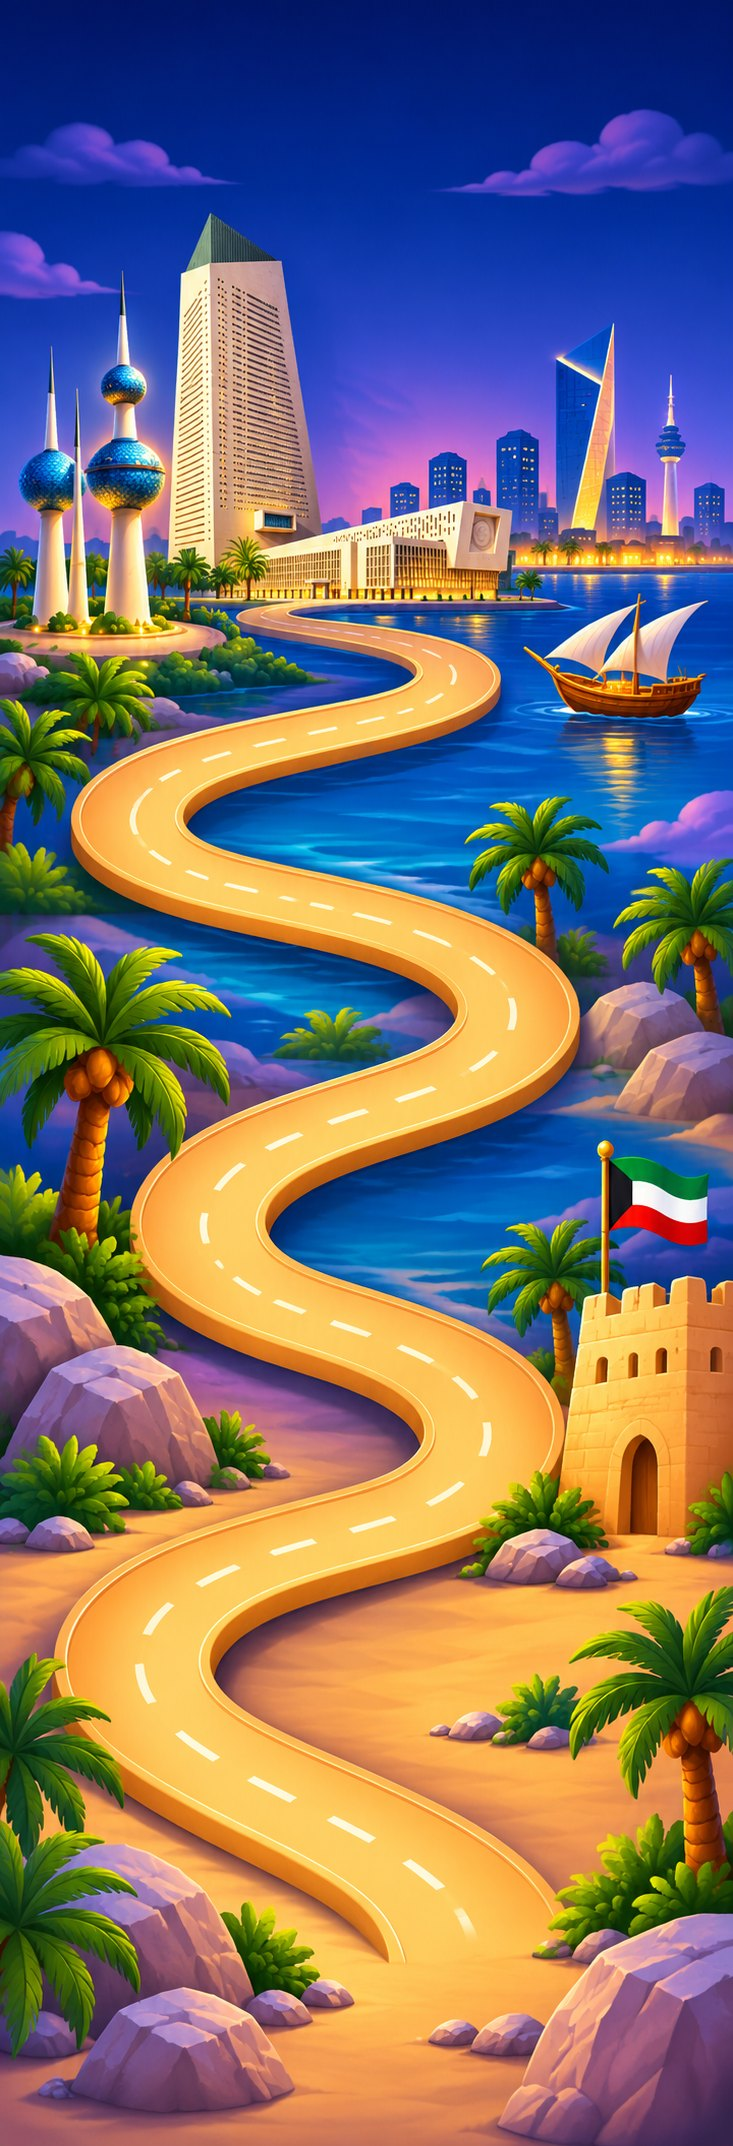
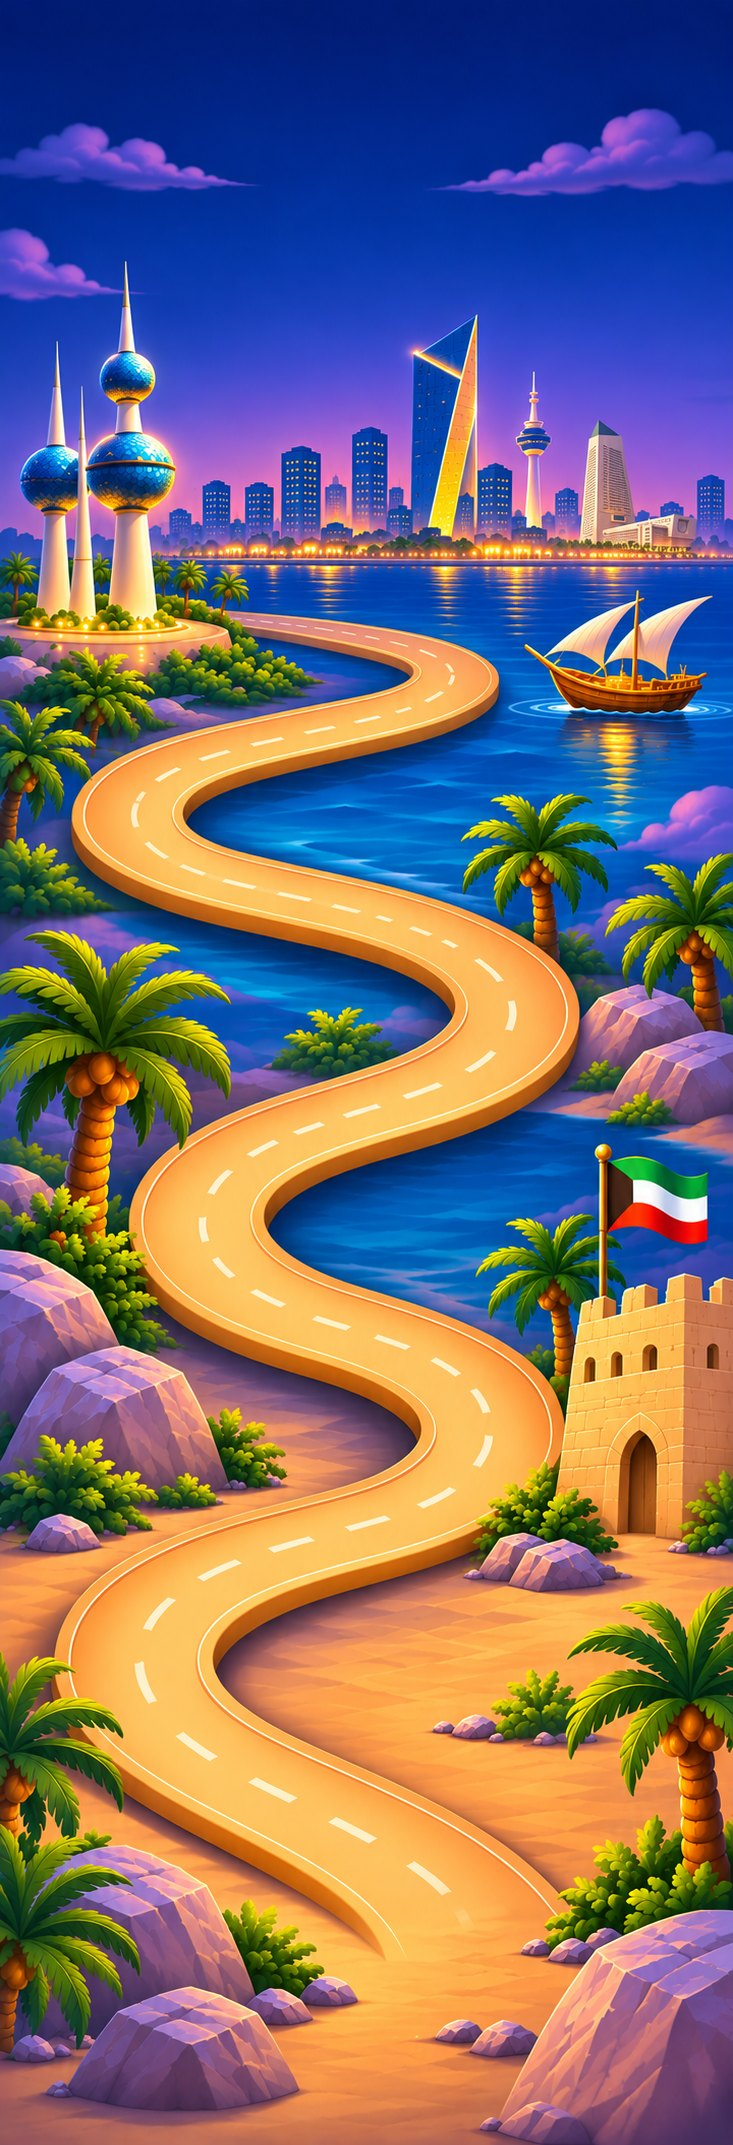
Map preview: Central Bank building moved back into the skyline
Claude-Session: https://claude.ai/code/session_01W61c2ohBVxKRnvGnjQdm82

diff --git a/preview/map.html b/preview/map.html
@@ -6,7 +6,7 @@
 html,body{height:100%;background:#1F2756;color:#F6F6F0;font-family:Cairo,sans-serif;overflow:hidden}
 .app{position:relative;height:100dvh;max-width:480px;margin:0 auto;overflow:hidden}
 .scroll{position:absolute;inset:0;overflow-y:auto;-webkit-overflow-scrolling:touch}
-.world{position:relative;width:100%;aspect-ratio:733/2146;background:url(../img/map/bg2.jpg) center/100% 100% no-repeat}
+.world{position:relative;width:100%;aspect-ratio:733/2146;background:url(../img/map/bg2.jpg?v=3) center/100% 100% no-repeat}
 .world::before{content:"";position:absolute;inset:0 0 auto 0;height:12%;background:linear-gradient(#1F2756 0,rgba(31,39,86,.55) 45%,transparent)}
 .world::after{content:"";position:absolute;inset:auto 0 0 0;height:9%;background:linear-gradient(transparent,#1F2756)}
 .top{position:sticky;top:0;z-index:5;padding:calc(env(safe-area-inset-top) + .5rem) 12px .5rem;background:linear-gradient(#1F2756 70%,transparent)}
